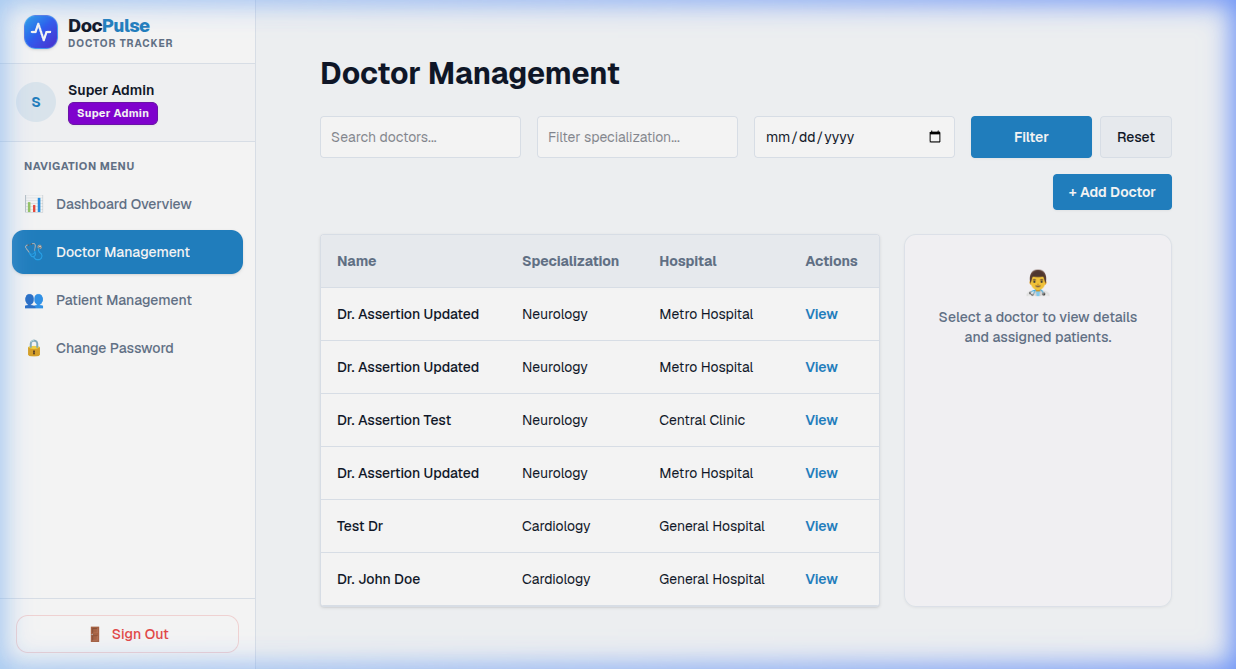
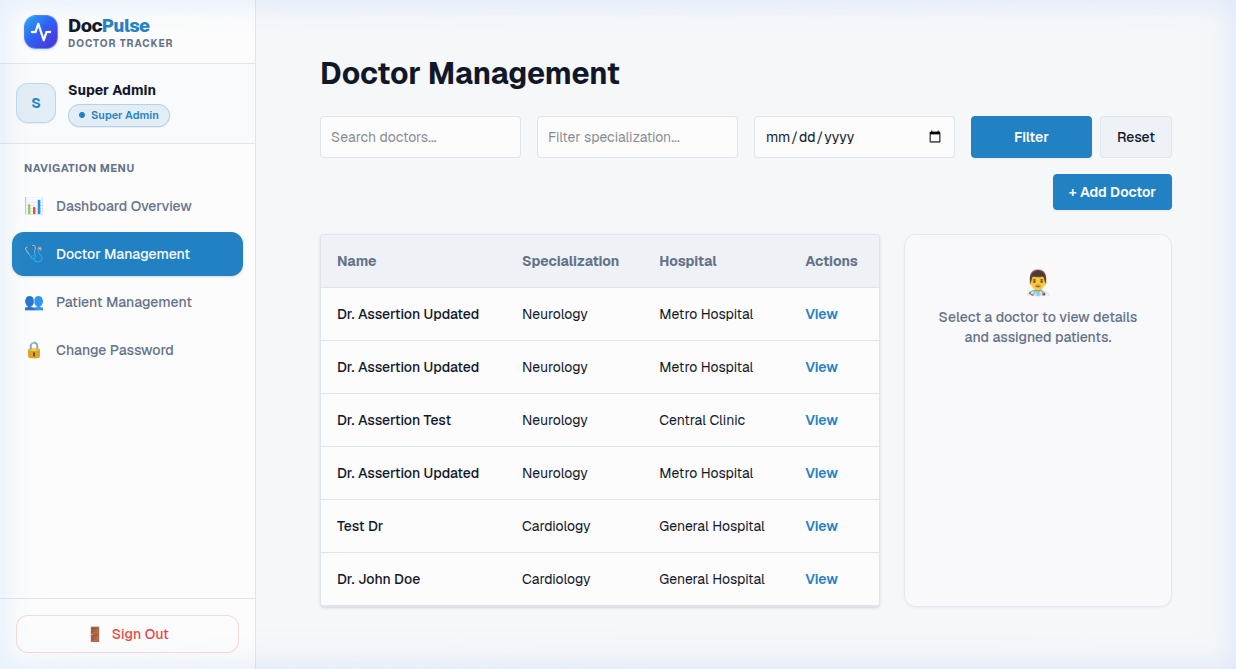
refactor: update sidebar user role styling and refresh documentation screenshots

Changed region(s): [[0.0, 0.0, 1.0, 1.0]]

diff --git a/client/src/components/dashboard/Sidebar.tsx b/client/src/components/dashboard/Sidebar.tsx
@@ -46,35 +46,42 @@ export function Sidebar({ user }: SidebarProps) {
 
   const navLinks = getNavLinks();
 
-  const getRoleLabel = () => {
+  const getRoleConfig = () => {
     switch (role) {
       case "SUPER_ADMIN":
-        return "Super Admin";
+        return {
+          label: "Super Admin",
+          badgeClass: "bg-primary/10 text-primary border-primary/25",
+          dotClass: "bg-primary",
+        };
       case "ADMIN":
-        return "Administrator";
+        return {
+          label: "Administrator",
+          badgeClass: "bg-blue-50 text-blue-800 border-blue-200/80 dark:bg-blue-950/40 dark:text-blue-300 dark:border-blue-800",
+          dotClass: "bg-blue-600",
+        };
       case "SENDER":
-        return "Care Staff";
+        return {
+          label: "Care Staff",
+          badgeClass: "bg-emerald-50 text-emerald-800 border-emerald-200/80 dark:bg-emerald-950/40 dark:text-emerald-300 dark:border-emerald-800",
+          dotClass: "bg-emerald-600",
+        };
       case "RECEIVER":
-        return "Patient / User";
+        return {
+          label: "Patient / User",
+          badgeClass: "bg-slate-100 text-slate-800 border-slate-200/80 dark:bg-slate-800 dark:text-slate-300 dark:border-slate-700",
+          dotClass: "bg-slate-500",
+        };
       default:
-        return role;
+        return {
+          label: role,
+          badgeClass: "bg-muted text-muted-foreground border-border",
+          dotClass: "bg-muted-foreground",
+        };
     }
   };
 
-  const getRoleColor = () => {
-    switch (role) {
-      case "SUPER_ADMIN":
-        return "bg-purple-700 text-white font-bold border border-purple-800 shadow-xs";
-      case "ADMIN":
-        return "bg-blue-700 text-white font-bold border border-blue-800 shadow-xs";
-      case "SENDER":
-        return "bg-emerald-700 text-white font-bold border border-emerald-800 shadow-xs";
-      case "RECEIVER":
-        return "bg-amber-700 text-white font-bold border border-amber-800 shadow-xs";
-      default:
-        return "bg-slate-700 text-white font-bold border border-slate-800 shadow-xs";
-    }
-  };
+  const roleConfig = getRoleConfig();
 
   return (
     <>
@@ -117,18 +124,19 @@ export function Sidebar({ user }: SidebarProps) {
         </div>
 
         {/* User Card */}
-        <div className="p-3 sm:p-4 border-b border-border bg-muted/30">
+        <div className="p-3.5 sm:p-4 border-b border-border bg-muted/20">
           <div className="flex items-center gap-3">
-            <div className="w-10 h-10 rounded-full bg-primary/10 text-primary flex items-center justify-center font-bold text-sm shrink-0">
+            <div className="w-10 h-10 rounded-xl bg-primary/10 text-primary border border-primary/20 flex items-center justify-center font-bold text-sm shrink-0 shadow-2xs">
               {user?.name ? user.name.charAt(0).toUpperCase() : "U"}
             </div>
             <div className="min-w-0 flex-1">
-              <p className="text-xs sm:text-sm font-semibold text-foreground truncate">
+              <p className="text-xs sm:text-sm font-bold text-foreground truncate">
                 {user?.name || "Care User"}
               </p>
-              <div className="flex items-center gap-1.5 mt-0.5">
-                <span className={`text-[11px] font-bold px-2 py-0.5 rounded-md tracking-wide ${getRoleColor()}`}>
-                  {getRoleLabel()}
+              <div className="flex items-center gap-1.5 mt-1">
+                <span className={`inline-flex items-center gap-1.5 text-[11px] font-semibold px-2.5 py-0.5 rounded-full border shadow-2xs ${roleConfig.badgeClass}`}>
+                  <span className={`w-1.5 h-1.5 rounded-full shrink-0 ${roleConfig.dotClass}`} />
+                  <span className="truncate">{roleConfig.label}</span>
                 </span>
               </div>
             </div>
